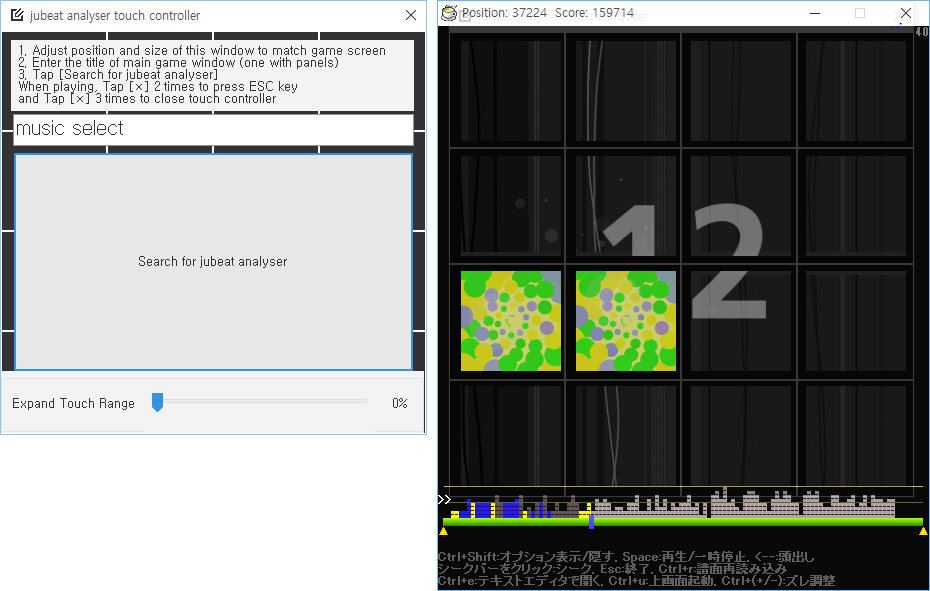
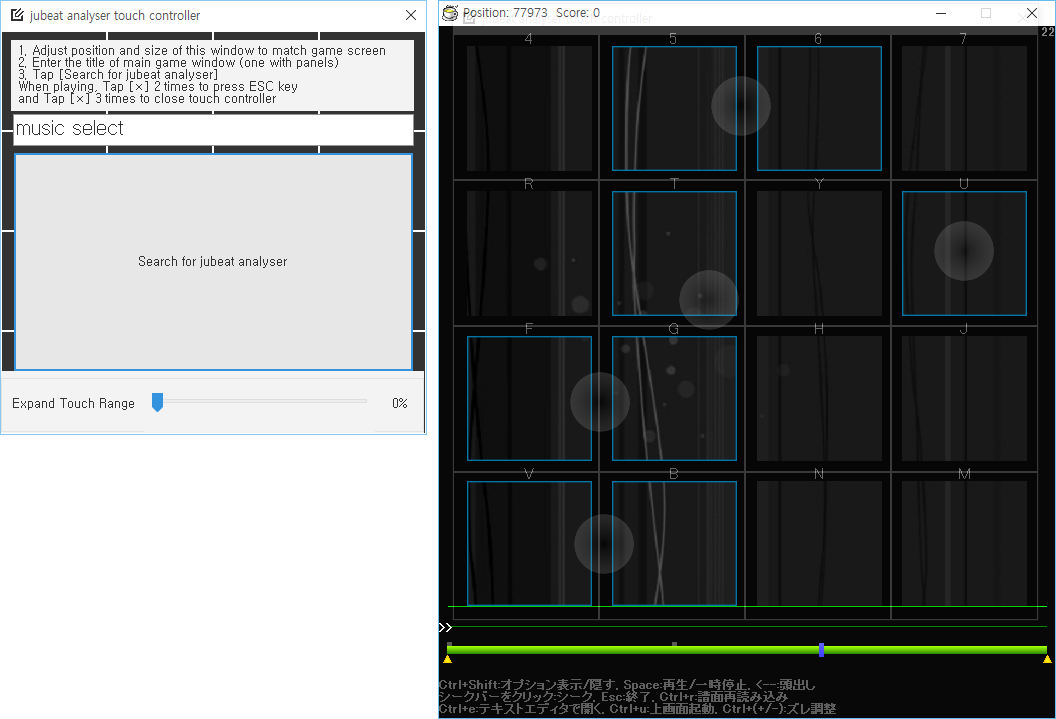
Add Close Button Count Indication
Grid becomes red on 1st close, becomes black and sends ESC on 2nd close,
and app closes on 3rd close.

Changed region(s): [[0.0, 0.0, 1.0, 1.0], [0.1559, 0.4264, 0.3118, 0.4569], [0.1247, 0.335, 0.2495, 0.3959]]

diff --git a/JATouchController/frmMain.cs b/JATouchController/frmMain.cs
@@ -120,7 +120,7 @@ namespace JATouchController
         bool exitFlag = true;
         bool escFlag = true;
 
-        Pen sepPen = new Pen(Brushes.White);
+        Pen sepPen;
 
         Rectangle clientRect;
 
@@ -131,6 +131,7 @@ namespace JATouchController
             // Uncomment this function to enable mouse interaction (for test purpose)
             //EnableMouseInPointer(true);
 
+            sepPen = new Pen(Brushes.White);
             sepPen.Width = 2f;
         }
 
@@ -407,22 +408,30 @@ namespace JATouchController
 
         private void tmrExitFlagRemover_Tick(object sender, EventArgs e)
         {
+            sepPen.Color = Color.White;
+            this.Invalidate();
             exitFlag = false;
             escFlag = false;
+            tmrExitFlagRemover.Stop();
         }
 
         private void frmMain_FormClosing(object sender, FormClosingEventArgs e)
         {
             if (!exitFlag)
             {
+                sepPen.Color = Color.Red;
+                this.Invalidate();
                 e.Cancel = true;
                 exitFlag = true;
+                tmrExitFlagRemover.Stop();
                 tmrExitFlagRemover.Start();
             }
             else
             {
                 if (!escFlag)
                 {
+                    sepPen.Color = Color.Black;
+                    this.Invalidate();
                     if (isAnalyserFound)
                     {
                         SetForegroundWindow(ptrAnalyser);
@@ -434,6 +443,10 @@ namespace JATouchController
                     escFlag = true;
                     tmrExitFlagRemover.Stop();
                     tmrExitFlagRemover.Start();
+                }
+                else
+                {
+
                 }
             }
         }

diff --git a/readme.md b/readme.md
@@ -18,8 +18,11 @@ Tested and confirmed working on my 8" Windows 10 tablet, but I cannot guarantee 
 4. Tap 'Search for jubeat analyser' (if the title of the jubeat analyser is not a 'music select', then change the text in textbox to the current title)
 5. Now you can play jubeat analyser with touch!
 
-You can send ESC key(to stop playing current song) by tapping close button twice quickly.<br/>
-Tap close button 3 times quickly to close this app.
+When you Tap the Close button on the top-right of the window, the grid will become red.<br/>
+When the grid is red, Tapping the Close button will send ESC key(to stop playing current song) to jubeat analyser. This will make the grid invisible.<br/>
+When the grid is invisible, Tapping the Close button will shut down the touch controller.
+
+(Close button: 1x=Nothing, 2x=ESC, 3x=Close)
 
 ## License
 
